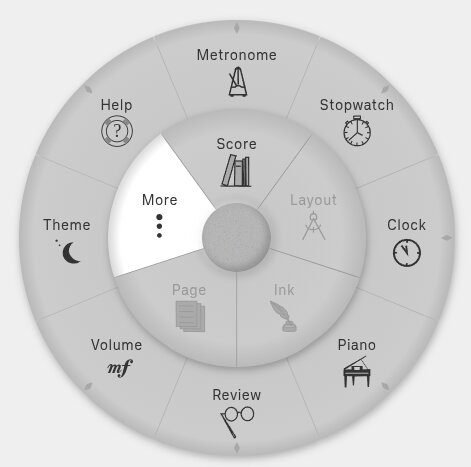
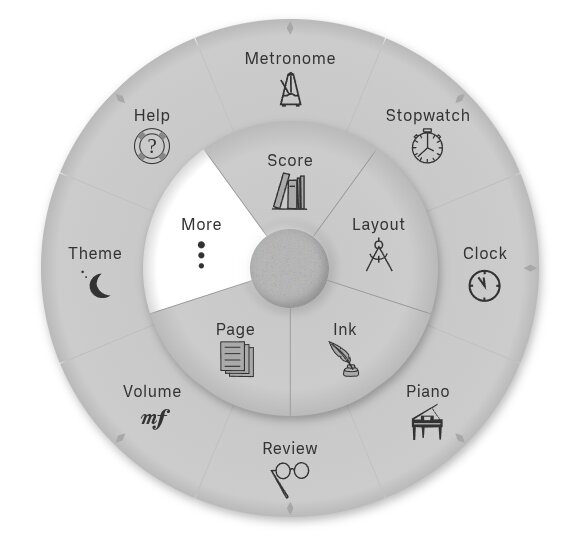
Complete More Ring documentation with Review tool and Help panel
Documentation updates:
- Add More Ring: Review with Video/Waveform/Options tabs and screenshots
- Update More Ring: Help to show 6 tabs with screenshot
- Add "What does Podium save to your browser?" section covering all storage
- Document Table layout drag reordering and page deletion
- Improve clarity throughout More Ring chapter with wordsmithing
- Add privacy note for shared browser scenarios

Code changes:
- Remove Install tab from HelpPanel (src/panel.js)

Screenshots:
- Add morehelp.jpg, morereviewvideo.jpg, morereviewwave.jpg, morereviewoptions.jpg
- Update morecells.jpg, morepianooptions.jpg, quickpage.jpg

🤖 Generated with [Claude Code](https://claude.com/claude-code)

diff --git a/doc/Guidebook.html b/doc/Guidebook.html
@@ -253,12 +253,14 @@
         .layout-grid {
             display: grid;
             grid-template-columns: 1fr 1fr;
-            gap: 10px;
-            max-width: 100%;
+            gap: 3px;
+            width: 90%;
+            max-width: 90%;
         }
 
         .layout-grid img {
             width: 100%;
+            max-width: 100%;
             height: auto;
             border-radius: 4px;
             border: 1px solid #ddd;
@@ -382,7 +384,7 @@ function closeVideo(event, container) {
     <img src="assets/podium-icon.jpg" alt="Podium icon">
 </div>
 
-<div class="version">Version 1.2</div>
+<div class="version">Version 2.0</div>
 
 <nav id="toc">
     <h2>Table of Contents</h2>
@@ -623,8 +625,10 @@ function closeVideo(event, container) {
 
     <figure>
         <img src="assets/quickpage.jpg" alt="Page Ring with table layout">
-        <figcaption>Screenshot showing Table layout with Page Ring active for page management (dark theme)</figcaption>
+        <figcaption>Screenshot showing Table layout with Page Ring active for page management</figcaption>
     </figure>
+
+    <div class="note"><strong>Quick tip:</strong> In Table layout, you can reorder pages by simply dragging them to a new location—other pages will split apart to show where the page will be inserted. You can also delete pages by dragging them completely out of the layout. This direct manipulation is often faster than using Page Ring tools!</div>
 
     <p><a href="#chapter-5" class="chapter-link">See Chapter 5: Page Ring</a> for complete page management features</p>
 
@@ -1006,9 +1010,9 @@ function closeVideo(event, container) {
 
     <p><strong>Bookmarks:</strong> Long-press on a page to both make it current and toggle its bookmark state (add bookmark if none exists, remove bookmark if one already exists).</p>
 
-    <p><strong>Reordering pages:</strong> You can easily reorder pages by dragging them to a new location in the table. This provides a visual way to reorganize your score.</p>
+    <p><strong>Reordering pages:</strong> Touch-drag a page to a new location. As you drag the page across the layout, other pages will split apart showing you where the page will be inserted if you release the drag. This effect works best when pages are not too extensively overlapped using negative values for the Vertical and Horizontal Gap sliders in the Layout Panel.</p>
 
-    <p><strong>Deleting pages:</strong> You can quickly delete pages by dragging them out of the table. This is faster than using the Page Ring Cut operation for removing unwanted pages.</p>
+    <p><strong>Deleting pages:</strong> Dragging pages out of the layout deletes them from the score. This can also be accomplished using the Delete cell of the menu's Page Ring.</p>
 
     <div class="note">To ease memory usage, the Table Layout shows low-resolution copies of all pages except the current page. These copies must all be generated before the Table Layout can be drawn: this may take several seconds to several minutes, depending on the score size.</div>
 
@@ -1339,7 +1343,7 @@ function closeVideo(event, container) {
         <figcaption>Paste panel showing paste buffer with multiple pages</figcaption>
     </figure>
 
-    <p>The page paste buffer has superpowers! Behind the scenes, it's actually a separate PDF file consisting of all the pages you've cut or copied, in the order you cut or copied them. When you activate the Paste cell and touch a page, this PDF file is merged into the current score—before the page if you click on the left half (top half for Vertical Layout), or after the page if you click on the right half (bottom half for Vertical Layout).</p>
+    <p>The page paste buffer has superpowers! Behind the scenes, it's actually a separate PDF file consisting of all the pages you've copied, in the order you copied them. When you activate the Paste cell and touch a page, this PDF file is merged into the current score—before the page if you click on the left half (top half for Vertical Layout), or after the page if you click on the right half (bottom half for Vertical Layout).</p>
 
     <p>The Paste Panel shows you a horizontally draggable view of thumbnails of this separate PDF file, along with two management buttons:</p>
 
@@ -1427,7 +1431,7 @@ function closeVideo(event, container) {
 
     <p>To hide a detached panel, simply fling it.</p>
 
-    <p>To close, drag the panel from the menu again, then tap the panel's x close button.</p>
+    <p>To close and delete a detached panel, drag out the panel from the menu again, then tap the panel's X button.</p>
 
     <h3 id="chapter-6-metronome">More Ring: Metronome</h3>
 
@@ -1440,7 +1444,7 @@ function closeVideo(event, container) {
 
     <p>Use the buttons to play/pause the metronome and the slider to set beats per minute.</p>
 
-    <p>Use the dropdown list to change graphic from traditional metronome to conducting pattern, with six different beat patterns.</p>
+    <p>Use the dropdown list to change the graphic from traditional metronome to conducting pattern, with six different beat patterns.</p>
 
     <figure>
         <img src="assets/moremetronomeopts.jpg" alt="Metronome dropdown options">
@@ -1485,18 +1489,20 @@ function closeVideo(event, container) {
 
     <p><strong>Sustain Mode:</strong> Identified by the standard piano pedal symbol. In sustain mode, notes continue to sound even after the key is released. Note however that piano notes only last for a maximum of a little over 2 seconds—Podium is not a sophisticated audio workstation.</p>
 
-    <p><strong>Autorepeat Mode:</strong> Tap the Autorepeat Mode button to toggle autorepeat mode. When enabled, key presses automatically repeat every 2.5 seconds (5 seconds for Tuning Fork timbre, see Settings:Timbre below), as an aid to tuning.</p>
+    <p><strong>Autorepeat Mode:</strong> Tap the Autorepeat Mode button to toggle autorepeat mode. When enabled, key presses automatically repeat at intervals (2.5 seconds for piano samples, 5 seconds for tuning fork timbre—see Settings:Timbre below), allowing you to hear sustained notes for easier tuning.</p>
 
     <div class="note">For traditional tuning using the "beats" method, use Autorepeat Mode with Tuning Fork timbre. For electronic tuning assistance, use the Pitch Detector described below.</div>
 
-    <p><strong>Pitch Detector:</strong> Identified by a tuning fork icon. Tap the Pitch Detector button to toggle pitch detection on/off. When on, a <a href="https://asa.scitation.org/doi/10.1121/1.1458024">YIN-based pitch detector</a> attempts to estimate the closest piano note to what it hears in the microphone. It overlays a whole note (semibreve) on the corresponding key, plus shows the number of cents deviation from that key's expected pitch. The expected pitch is affected by the Settings Pitch setting (see below), but not by the Temperament setting—i.e., it's the deviation from equal tempered tuning regardless of Temperament setting.</p>
+    <p><strong>Pitch Detector:</strong> Identified by a tuning fork icon. Tap the Pitch Detector button to toggle pitch detection on/off. When on, a <a href="https://asa.scitation.org/doi/10.1121/1.1458024">YIN-based pitch detector</a> attempts to estimate the closest piano note to what it hears in the microphone. It overlays a whole note (semibreve) on the corresponding key, plus shows the number of cents deviation from that key's expected pitch. The opacity of the whole note reflects the algorithm's confidence—the symbol becomes more transparent as confidence decreases. The expected pitch is affected by the Settings Pitch setting (see below), but not by the Temperament setting—i.e., it's the deviation from equal tempered tuning regardless of Temperament setting.</p>
+
+    <div class="note">The pitch detector is monophonic—it works best with a single note at a time. When multiple pitches or unpitched sounds (such as speech or noise) are present in the microphone input, the detector will produce unreliable results.</div>
 
     <figure>
         <img src="assets/morepianodetect.jpg" alt="Piano pitch detector">
         <figcaption>Pitch detector showing detected note and cents deviation</figcaption>
     </figure>
 
-    <p><strong>Settings:</strong> Tap the Toggle Settings button to toggle the Settings Panel on/off. Once open, you can close it by flinging. This internal panel is always enclosed by the keyboard: drag horizontally to reposition. It has 3 tabs:</p>
+    <p><strong>Settings:</strong> Tap the Settings button to open/close the Settings Panel. Once open, you can close it by flinging. This internal panel is always enclosed by the keyboard: drag horizontally to reposition. It has 3 tabs:</p>
 
     <ul>
         <li><strong>Pitch:</strong> Adjust the frequency of the entire keyboard by setting the frequency, in Hz, of A4. Several common options are provided as presets, with web links to explanations.</li>
@@ -1509,24 +1515,37 @@ function closeVideo(event, container) {
         <figcaption>Piano settings showing Pitch, Temperament, and Timbre tabs</figcaption>
     </figure>
 
-    <div class="note">Several options include links to explanatory web articles. When choosing an option, avoid tapping on these links.</div>
+    <div class="note">Most options include links to explanatory web articles. To select an option, tap the option name itself rather than the link.</div>
 
     <h3 id="chapter-6-review">More Ring: Review</h3>
 
     <p>Record audio/video with instant replay.</p>
 
-    <figure>
-        <figcaption>Review panel showing video/waveform display</figcaption>
-    </figure>
+    <div class="note">If Podium does not find a usable camera and microphone, this tool will not run.</div>
 
-    <p>Monitor a device's camera and microphone, with instant replay of the last ~30 seconds (configurable). Optionally view Video or audio waveform, overlaid on a waterfall spectrogram.</p>
+    <p>Monitor a device's camera and microphone, with instant replay of the last ~30 seconds (configurable).</p>
 
     <div class="note">The tool is designed for interactive use only. By design, its recordings are transient and discarded when the tool is closed.</div>
 
+    <p>The Review panel has three tabs:</p>
+
+    <h4>Video Tab:</h4>
+    <p>Displays live video from your camera with playback controls.</p>
+
+    <figure>
+        <img src="assets/morereviewvideo.jpg" alt="Review video tab">
+        <figcaption>Review panel Video tab showing live camera feed with playback controls</figcaption>
+    </figure>
+
+    <p>The Review tool records you continuously while practicing/rehearsing. If you make a mistake (or do something great!) you can immediately replay the moment for analysis.</p>
+
+    <p>You can let the Review run for hours without worrying about running out of memory. Behind the scenes, Podium maintains two alternating recordings of a configurable maximum length (typically 30 seconds to a few minutes). When the first recording reaches half its length, the second starts. When the second reaches half its length, the first is discarded and restarted, and so on. This ensures at least half the maximum recording length is always available for review.</p>
+
+    <div class="note">Although this prevents your system from consuming memory, it can use a lot of battery, so works best if your device is plugged in to a power supply rather than running off battery.</div>
+
     <p>At any time, the tool will be in one of two modes:</p>
 
-    <h4>Live Mode:</h4>
-    <p>Audio and video are continuously recorded, and the Play button's text label is Live. When the recording length reaches a preset maximum, the first half of the recording is discarded, but recording continues. You'll always have at least half of the preset maximum available for replay.</p>
+    <p><strong>Live Mode:</strong> Audio and video are continuously recorded, and the Play button displays "Live". As described above, when the recording reaches the preset maximum, older content is automatically discarded while recording continues.</p>
 
     <p>Pause recording by tapping the Pause button, and resume by tapping the Play button (labeled Live).</p>
 
@@ -1534,46 +1553,89 @@ function closeVideo(event, container) {
 
     <p>To enter Playback mode, drag the scrubber to the left. Playback begins at the chosen location.</p>
 
-    <h4>Playback Mode:</h4>
-    <p>Recorded audio and video are played back, and the Play button's text label is "Replay".</p>
+    <p><strong>Playback Mode:</strong> Recorded audio and video are played back, and the Play button's text label is "Replay".</p>
 
     <p>Pause playback by tapping the Pause button, and resume by tapping the Play Button (labeled Replay).</p>
 
     <p>To reenter Live mode, drag the scrubber to the right, or simply wait until Playback ends. Then tap the Play Button to restart recording. Any previous recording will be lost.</p>
 
-    <h3 id="chapter-6-help">More Ring: Help</h3>
+    <h4>Waveform Tab:</h4>
+    <p>Displays the waveform of the input from the microphone overlaid on a waterfall spectrum. Mostly useful as just something to look at when practicing scales and arpeggios!</p>
 
-    <p>A tabbed panel with 5 tabs:</p>
+    <figure>
+        <img src="assets/morereviewwave.jpg" alt="Review waveform tab">
+        <figcaption>Review panel Waveform tab showing audio visualization</figcaption>
+    </figure>
+
+    <h4>Options Tab:</h4>
+    <p>Configure the Review tool settings:</p>
 
     <ul>
-        <li><strong>Help:</strong> contains a link to this document.</li>
-        <li><strong>Credits:</strong> lists of the open source projects used to build Podium.</li>
-        <li><strong>License:</strong> copyright and license declaration (GNU Affero General Public License)</li>
-        <li><strong>Storage:</strong> <span id="chapter-6-help-storage">manage browser storage including the paste buffer, menu settings, and recent files list</span></li>
-        <li><strong>About:</strong> shows the application's version number</li>
+        <li><strong>Camera Orientation:</strong> Choose whether the video tab shows how you will look through a camera (Front) or if you were looking in a mirror (Mirror).</li>
+        <li><strong>Recording Length:</strong> Set the minimum and maximum recording length. These two numbers work as described in Live Mode above.</li>
+        <li><strong>Device Selection:</strong> If your device has multiple cameras or microphones, you can choose which devices will be used by the tool.</li>
     </ul>
 
-    <h4>Storage Tab:</h4>
+    <figure>
+        <img src="assets/morereviewoptions.jpg" alt="Review options tab">
+        <figcaption>Review panel Options tab showing camera, recording, and device settings</figcaption>
+    </figure>
+
+    <h3 id="chapter-6-help">More Ring: Help</h3>
+
+    <p>A tabbed panel with 6 tabs providing access to documentation, settings, and information about Podium.</p>
+
+    <figure>
+        <img src="assets/morehelp.jpg" alt="Help panel Doc tab">
+        <figcaption>Help panel showing the Doc tab with the guidebook</figcaption>
+    </figure>
+
+    <h4>About Tab:</h4>
+    <p>Shows the application's version number and provides links to:</p>
+    <ul>
+        <li><strong>Terms:</strong> Terms of use</li>
+        <li><strong>Privacy:</strong> Privacy policy</li>
+        <li><strong>Github:</strong> Source code repository</li>
+        <li><strong>Issues:</strong> Bug reporting and feature requests</li>
+    </ul>
+
+    <h4>Doc Tab:</h4>
+    <p>Displays this guidebook if you are online.</p>
+
+    <h4>Release Notes Tab:</h4>
+    <p>Shows all release notes for Podium version history.</p>
+
+    <h4 id="chapter-6-help-storage">Storage Tab:</h4>
 
     <p>The Storage tab provides buttons to manage Podium's browser storage:</p>
 
     <ul>
-        <li><strong>Buffer:</strong> Clears the page paste buffer. Use this for privacy if you share a browser with others (see <a href="#chapter-5-paste">Page Ring: Paste</a> for details).</li>
-        <li><strong>Menu:</strong> Resets all Panel settings to their default values.</li>
-        <li><strong>Recent:</strong> Clears the Recent Files list from local storage.</li>
+        <li><strong>Menu:</strong> Clears stored values of many menu settings. Clicking this will reset the menu to its defaults.</li>
+        <li><strong>Recent:</strong> Clears the recently visited list displayed in the Open, Save, and Copy panels.</li>
+        <li><strong>Buffer:</strong> Clears the distributed paste buffer contents (see <a href="#chapter-5-paste">Page Ring: Paste</a> for details).</li>
     </ul>
 
-    <h4>Settings Storage and Factory Reset:</h4>
+    <h4>Credits Tab:</h4>
+    <p>Lists the open source projects Podium is built on.</p>
 
-    <p>The Menu's state, including most Panel settings, is automatically stored in browser local storage. This means that, for a given browser, on a given device, these settings will persist across application restarts. However, if you use a different browser and/or device, the settings could well be different.</p>
+    <h4>License Tab:</h4>
+    <p>Official copyright and license statement (GNU Affero General Public License).</p>
+
+    <h4>What does Podium save to your browser?</h4>
+
+    <p>Podium stores several types of data in your browser's storage:</p>
+
+    <p><strong>Menu Settings:</strong> The Menu's state, including most Panel settings, is automatically stored in browser local storage. This means that, for a given browser, on a given device, these settings will persist across application restarts. However, if you use a different browser and/or device, the settings could well be different.</p>
 
     <div class="note">The storage mechanism is triggered every time the user interface is tapped. However, to prevent a flood of storage writes, the operation doesn't actually run until 5 seconds of idle time have passed since the last tap.</div>
 
     <p>The Menu's state is also stored within the score whenever it is saved, and restored when that score is next opened. These settings take precedence over settings found in browser local storage. Since these settings are part of the score file itself, they will be the same, regardless of the device or browser in use.</p>
 
-    <p>The Open Panel's list of Recently opened scores is also saved to the browser's local storage whenever it changes. However, this list is kept in the browser's local storage only. Unlike Panel settings, it is never stored within the score. This is because Local files on one device are unlikely to be the same as local files on another device.</p>
+    <p><strong>Recent Files List:</strong> The Open Panel's list of Recently opened scores is saved to the browser's local storage whenever it changes. However, this list is kept in the browser's local storage only. Unlike Panel settings, it is never stored within the score. This is because local files on one device are unlikely to be the same as local files on another device.</p>
 
-    <p>You can clear stored settings and data using the buttons in the Storage tab described above.</p>
+    <p><strong>Distributed Paste Buffer:</strong> The page paste buffer (see <a href="#chapter-5-paste">Page Ring: Paste</a>) is stored in the browser's IndexedDB as a separate PDF file. This buffer is shared across all Podium instances in the same browser, allowing you to copy pages from one score and paste them into another.</p>
+
+    <div class="note">If you share a browser with others, you may want to clear these storage areas for privacy. Use the buttons in the Storage tab (described above) to clear menu settings, recent files, and paste buffer contents as needed.</div>
     <a href="#toc" class="back-to-toc">↑ Back to Table of Contents</a>
 </section>
 

diff --git a/src/panel.js b/src/panel.js
@@ -834,7 +834,7 @@ for more details.</p>
           <a target="_blank" rel="noopener noreferrer" href="https://www.studiop5.org/privacy.html">Privacy</a>&nbsp;
           <a target="_blank" rel="noopener noreferrer" href="https://www.studiop5.org/terms.html">Terms</a>&nbsp;
           <a target="_blank" rel="noopener noreferrer" href="https://github.com/studiop5/podium">Github</a>&nbsp;
-          <a target="_blank" rel="noopener noreferrer" href="https://github.com/studiop5/podium/issues">Contact / Feedback \u2709</a>
+          <a target="_blank" rel="noopener noreferrer" href="https://github.com/studiop5/podium/issues">Issues \u2709</a>
         </div>
      </div>`
   );
@@ -844,41 +844,6 @@ for more details.</p>
         <div style="margin-top:1em;">Factory Reset:</div>
         <div data-tag="buttons"></div>
      <div>`
-  );
-
-  installFace = helm(
-    `<div style="padding:2em;text-align:left;font-size:.9em;">
-      <h3 style="text-align:center;">Install Podium as a Progressive Web App</h3>
-
-      <p>Installing Podium as a PWA allows you to:</p>
-      <ul>
-        <li>Use Podium offline (after first visit)</li>
-        <li>Add it to your home screen or app launcher</li>
-        <li>Run it in a standalone window without browser UI</li>
-      </ul>
-
-      <div data-tag="installButtonSection" style="display:none;">
-        <h4>Installation:</h4>
-        <p>Click the button below to install:</p>
-        <div data-tag="installButton" style="text-align:center;margin:1em 0;">
-          <!-- Install button will be inserted here by JavaScript -->
-        </div>
-      </div>
-
-      <div data-tag="browserInstructions">
-        <h4>Installation:</h4>
-        <p>Use your browser's install feature:</p>
-        <ul>
-          <li><b>Chrome/Edge (Desktop):</b> Look for the install icon in the address bar, or open the menu (⋮) → "Install Podium..."</li>
-          <li><b>Chrome/Edge (Mobile):</b> Open the menu (⋮) → "Add to Home screen"</li>
-          <li><b>Safari (iOS):</b> Tap the Share button → "Add to Home Screen"</li>
-          <li><b>Firefox (Desktop):</b> Look for the install icon in the address bar</li>
-        </ul>
-      </div>
-
-      <h4>Checking for Updates:</h4>
-      <p>When you visit Podium after an update, the service worker will automatically download the new version in the background. Simply reload the page to get the latest version.</p>
-    </div>`
   );
 
   releaseNotesFace = helm(
@@ -920,7 +885,7 @@ for more details.</p>
 
   constructor(cell) {
     super(cell);
-    let tabView = new TabView(this, "About", "Doc", "Install", "Release Notes", "Storage", "Credits", "License");
+    let tabView = new TabView(this, "About", "Doc", "Release Notes", "Storage", "Credits", "License");
     Object.assign(this.body.style, {
       margin: 0,
       width: "90vw",
@@ -989,43 +954,6 @@ for more details.</p>
       } catch (ex) {
         console.warn("Cannot access iframe content:", ex);
       }
-    });
-
-
-    // Install tab
-    tabView.tabs["Install"].face.append(this.installFace);
-
-    // Add install button functionality
-    let installElements = dataIndex("tag", this.installFace);
-    let installButtonContainer = installElements.installButton;
-    let installButtonSection = installElements.installButtonSection;
-    let browserInstructions = installElements.browserInstructions;
-    let deferredPrompt;
-
-    // Listen for beforeinstallprompt event
-    window.addEventListener('beforeinstallprompt', (e) => {
-      e.preventDefault();
-      deferredPrompt = e;
-
-      // Show install button section, hide browser instructions
-      installButtonSection.style.display = 'block';
-      browserInstructions.style.display = 'none';
-
-      // Create install button
-      let installButton = helm(`<button style="padding:1em 2em;font-size:1.2em;cursor:pointer;">Install Podium</button>`);
-      installButtonContainer.append(installButton);
-
-      listen(installButton, 'click', async () => {
-        if (!deferredPrompt) return;
-
-        deferredPrompt.prompt();
-        const { outcome } = await deferredPrompt.userChoice;
-
-        if (outcome === 'accepted') {
-          installButtonContainer.innerHTML = '<p style="color:green;">✓ Installation started!</p>';
-        }
-        deferredPrompt = null;
-      });
     });
 
     this.body.append(tabView.elm);

diff --git a/src/common.js b/src/common.js
@@ -73,7 +73,7 @@ Element.prototype["replace"] = function(newElm) {
 // properties defined on the window "global" namespace
 // are distinguished using the convention of leading+trailing underscores:
 
-window._podiumVersion_ = "1.1";
+window._podiumVersion_ = "2.0";
 window._body_ = document.body;
 window._dvPxRt_ = 1 + (devicePixelRatio - 1) * 0.3;
 window._frMs_ = 0.06; // initial estimate of number of frames per millisecond (60fps)
